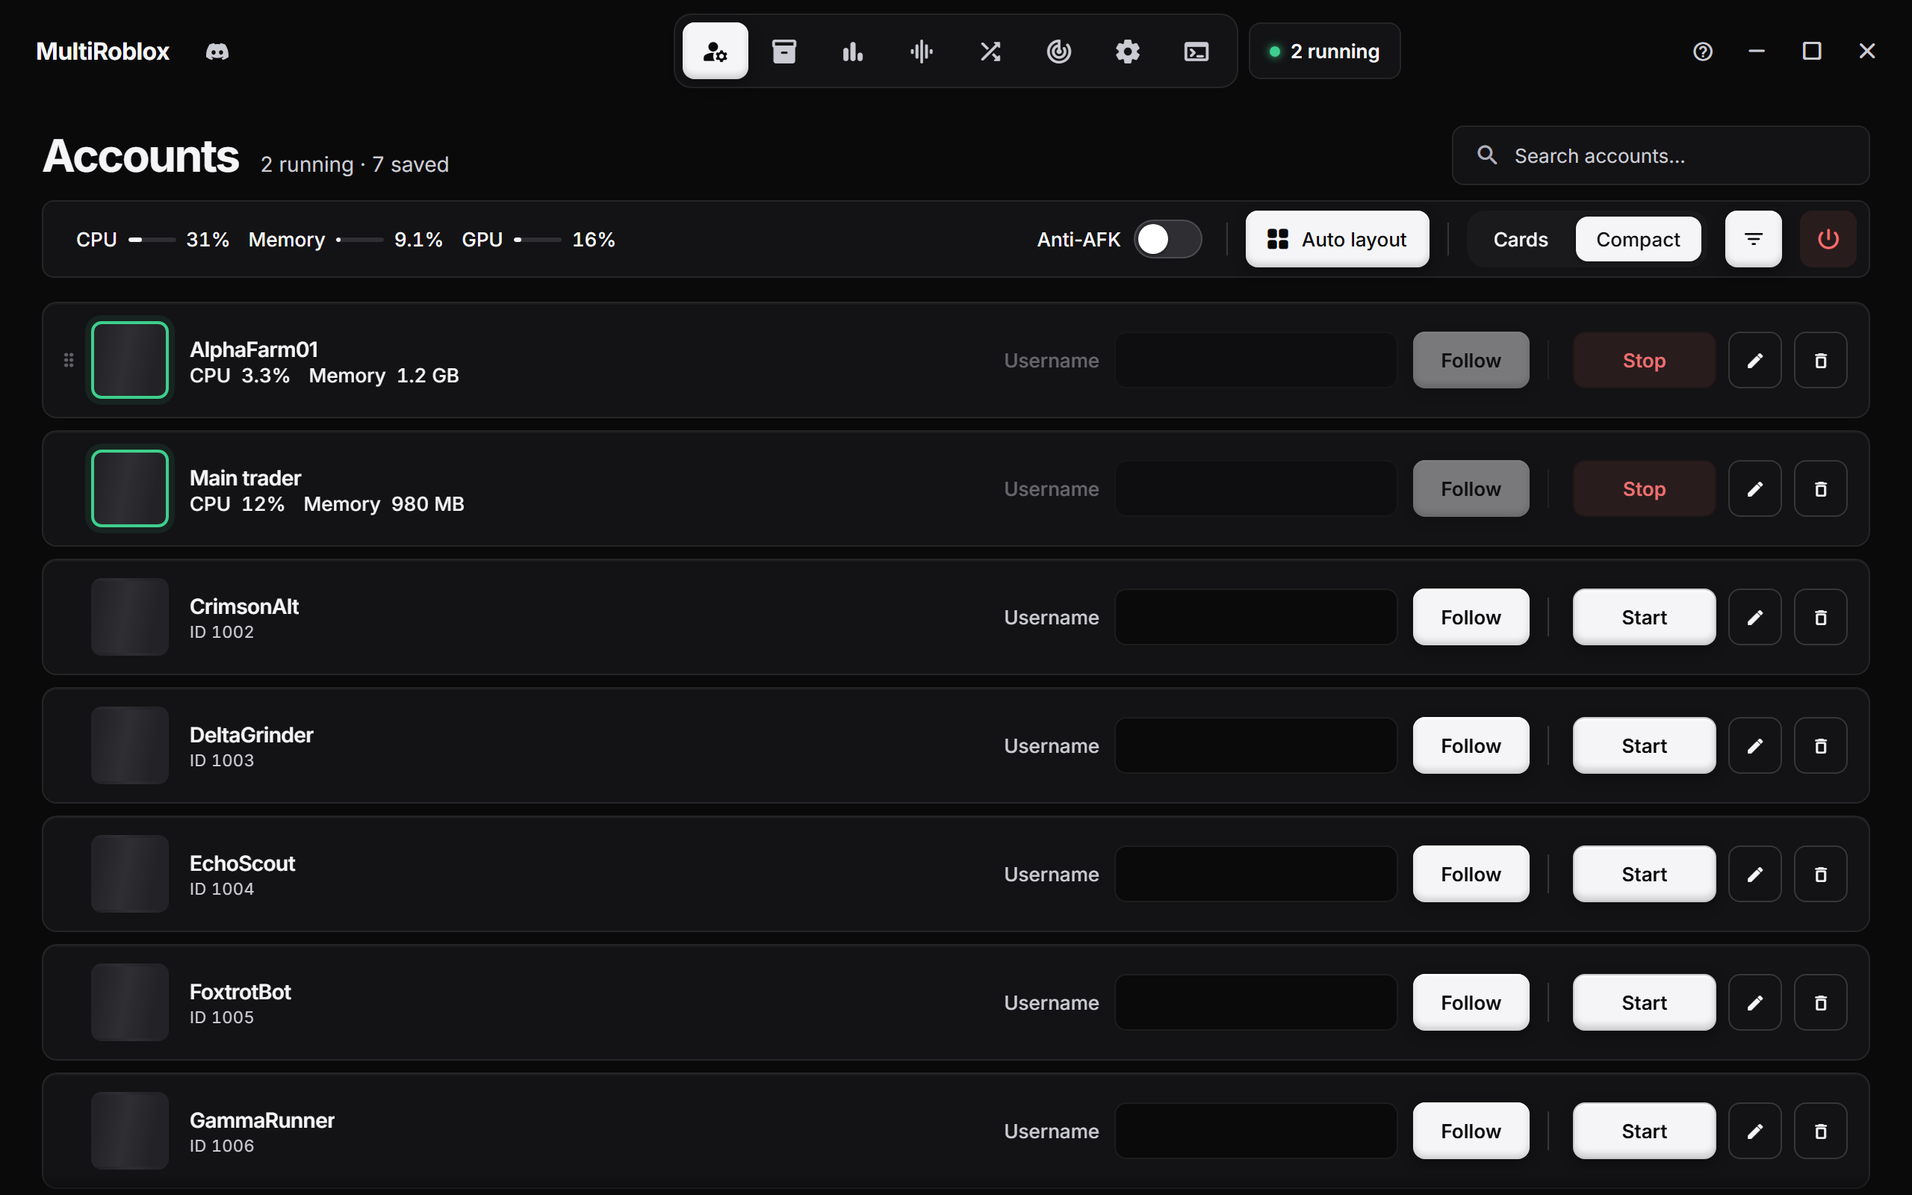
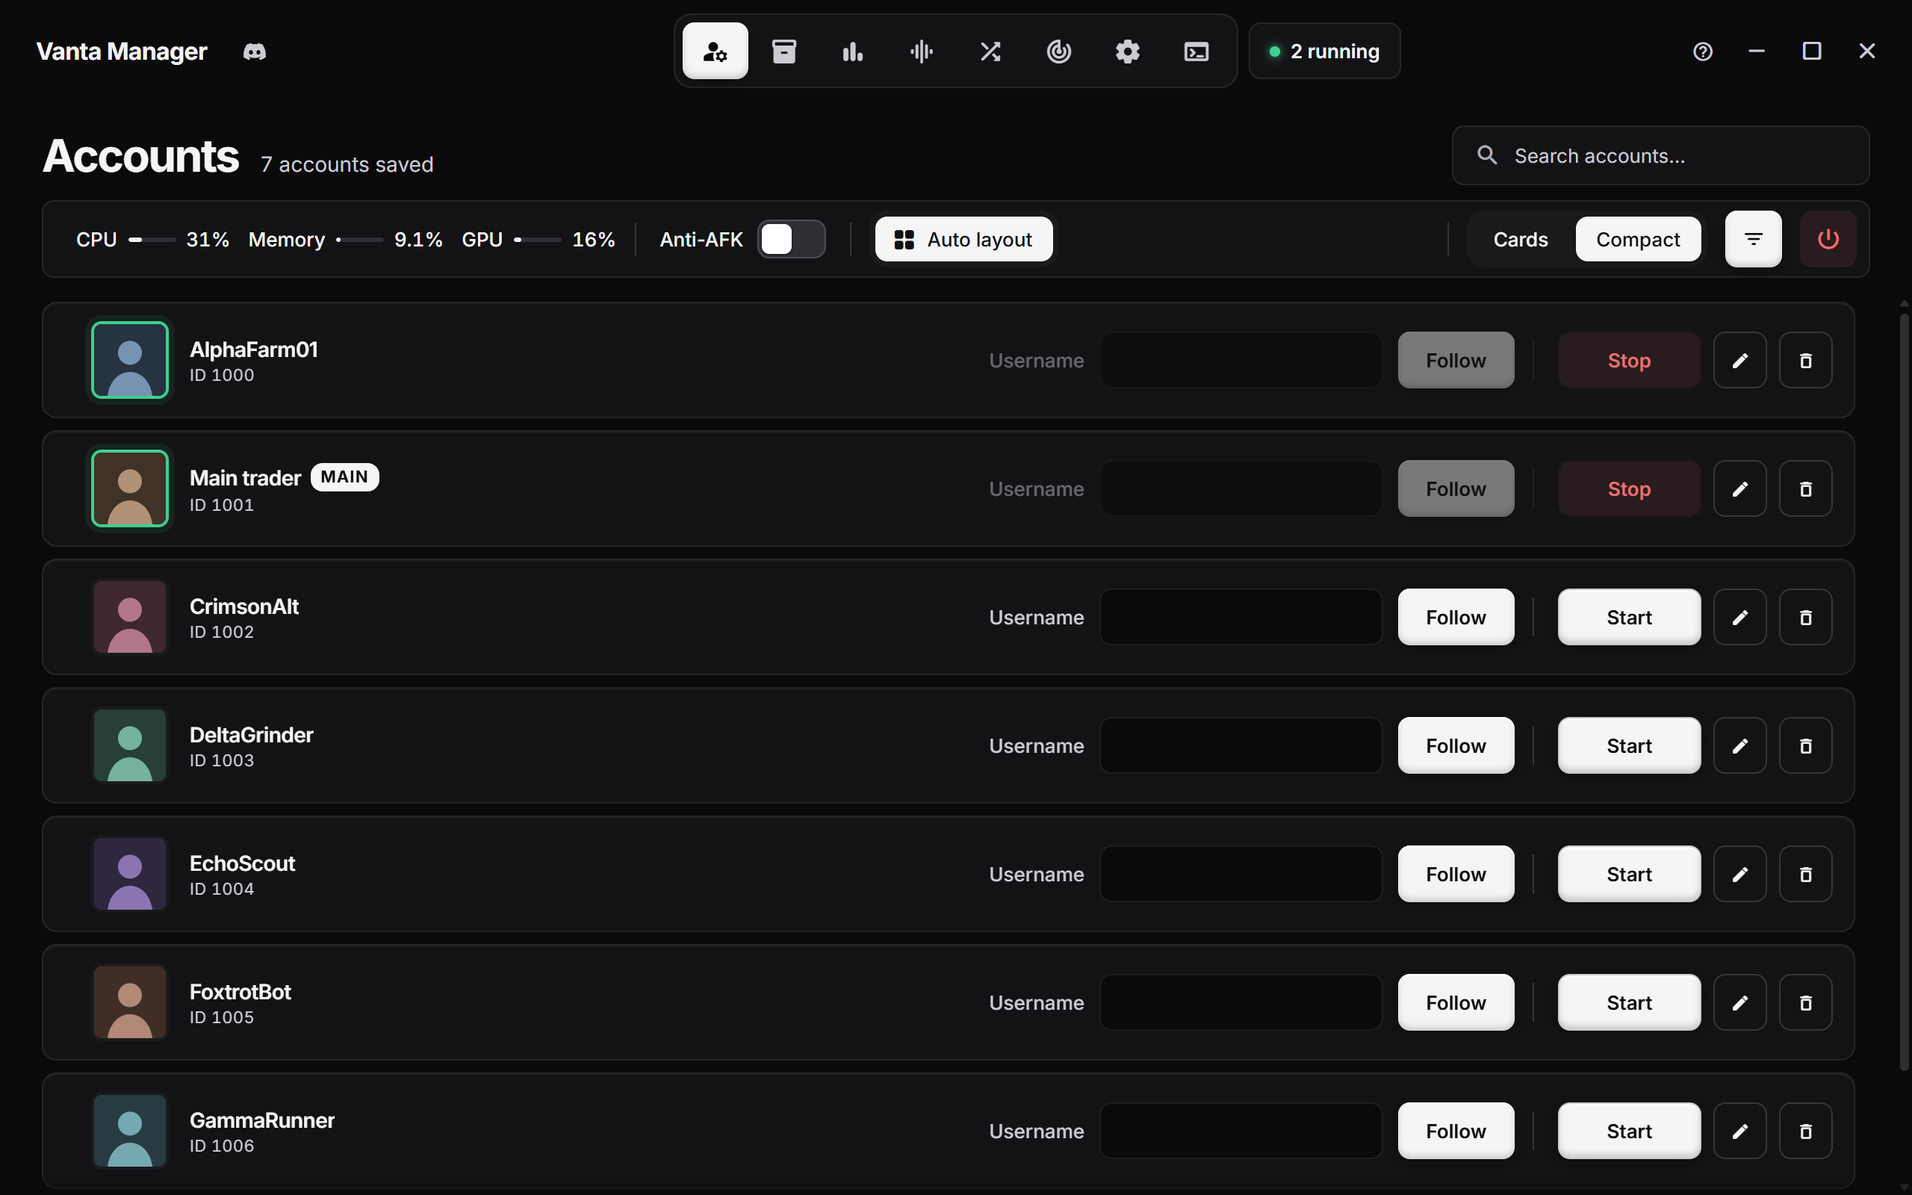
Update README for Vanta Manager
New name and icon, refreshed screenshots, and a rewritten feature list.

diff --git a/README.md b/README.md
@@ -1,43 +1,50 @@
 <div align="center">
 
-<img src="MultiRoblox/src-tauri/icons/128x128.png" width="96" alt="MultiRoblox logo" />
+<img src="docs/icon.png" width="112" alt="Vanta Manager logo" />
 
-# MultiRoblox
+# Vanta Manager
 
 **Run as many Roblox accounts as you want, side by side, on Windows.**<br>
-Launch, line up, monitor and tune every instance from one clean dashboard.
+Launch, line up, monitor and tune every client from one dashboard.
+
+*Formerly MultiRoblox. Your saved accounts and settings carry over.*
 
 <br>
 
-[![Download](https://img.shields.io/badge/Download-latest%20release-F5F5F7?style=for-the-badge&logo=github&logoColor=111113&labelColor=26262B)](https://github.com/PookiePepelsss/MultiRoblox-RAM/releases)
-[![Platform](https://img.shields.io/badge/Windows-10%20%7C%2011-0078D6?style=for-the-badge&logo=windows&logoColor=white)](https://github.com/PookiePepelsss/MultiRoblox-RAM/releases)
+[![Download](https://img.shields.io/badge/Download-latest%20release-F5F5F7?style=for-the-badge&logo=github&logoColor=111113&labelColor=26262B)](https://github.com/PookiePepelsss/Vanta-Manager/releases)
+[![Platform](https://img.shields.io/badge/Windows-10%20%7C%2011-0078D6?style=for-the-badge&logo=windows&logoColor=white)](https://github.com/PookiePepelsss/Vanta-Manager/releases)
 [![Built with Tauri](https://img.shields.io/badge/Tauri%202-Rust-24C8DB?style=for-the-badge&logo=tauri&logoColor=white)](https://tauri.app/)
 [![License](https://img.shields.io/badge/License-PolyForm%20Noncommercial-3DDC97?style=for-the-badge)](LICENSE)
 
 <br>
 
-<img src="docs/screenshots/accounts.png" alt="MultiRoblox accounts dashboard" width="920" />
+<img src="docs/screenshots/accounts.png" alt="Vanta Manager accounts dashboard" width="920" />
 
 </div>
 
 <br>
 
-## Why MultiRoblox
+## Why Vanta Manager
 
 |   |   |
 |---|---|
 | **One exe, no install** | Download it, run it. The native helper is embedded, so there are no extra files to keep next to it. |
-| **Real sign-in** | Log in through a real Roblox window, or paste a cookie. Cookies stay on your PC, encrypted. |
-| **Every account at once** | Roblox normally allows one client. MultiRoblox opens a fresh instance for each account you start. |
-| **Built for farms** | Groups, auto-relaunch, RAM limits, anti-AFK and tiled windows keep a lot of clients manageable. |
+| **Every account at once** | Roblox normally allows one client. Vanta Manager opens a fresh instance for each account you start, each signed in as that account. |
+| **Tune each client** | Give every account its own FPS cap, graphics level and window mode, so alts that only need to sit in a game cost very little. |
+| **Light on your PC** | Minimize, shrink or fully hide windows, cap RAM per client, and let the app itself drop its memory while it sits in the tray. |
+| **Built for farms** | Groups, auto-relaunch, anti-AFK and tiled windows keep a lot of clients manageable. |
+| **Your data stays yours** | Cookies are encrypted on your PC with Windows DPAPI or your own passphrase. Nothing is uploaded anywhere. |
 
 <br>
 
 ## Quick start
 
-1. Grab `MultiRoblox.exe` from [**Releases**](https://github.com/PookiePepelsss/MultiRoblox-RAM/releases).
-2. Run it, click **Add account**, and sign in.
-3. Press **Start** on as many accounts as you like.
+1. Download `VantaManager.exe` from [**Releases**](https://github.com/PookiePepelsss/Vanta-Manager/releases).
+2. Run it. If Windows SmartScreen warns about an unknown publisher, choose **More info**, then **Run anyway**. The app isn't code-signed.
+3. Click **Add account** and sign in through the Roblox window, or paste a cookie.
+4. Press **Start** on as many accounts as you like.
+
+**Coming from MultiRoblox?** Run the new exe and everything is already there. Accounts, groups and settings live in the same folder as before.
 
 <details>
 <summary><b>Build it yourself</b></summary>
@@ -47,12 +54,16 @@ Launch, line up, monitor and tune every instance from one clean dashboard.
 You need the [Rust toolchain](https://rustup.rs) and Node.js.
 
 ```bash
-git clone https://github.com/PookiePepelsss/MultiRoblox-RAM.git
-cd MultiRoblox-RAM/MultiRoblox
+git clone https://github.com/PookiePepelsss/Vanta-Manager.git
+cd Vanta-Manager/MultiRoblox
 build.bat
 ```
 
-The finished exe lands in `dist\MultiRoblox.exe`.
+The finished exe lands in `dist\VantaManager.exe`. To run the tests:
+
+```bash
+cargo test --manifest-path src-tauri/Cargo.toml --lib
+```
 
 </details>
 
@@ -62,24 +73,37 @@ The finished exe lands in `dist\MultiRoblox.exe`.
 
 <table>
   <tr>
-    <td width="50%"><img src="docs/screenshots/context-menu.png" alt="Right-click menu on a running account" /><br><sub><b>Right-click menu.</b> Kill, trim memory, set priority, edit, copy IDs.</sub></td>
+    <td width="50%"><img src="docs/screenshots/context-menu.png" alt="Right-click menu on a running account" /><br><sub><b>Right-click menu.</b> Kill, hide the window, trim memory, set priority, edit, copy IDs.</sub></td>
+    <td width="50%"><img src="docs/screenshots/edit-account.png" alt="Edit account, Performance tab" /><br><sub><b>Per-account performance.</b> FPS cap, graphics, window mode and Advanced graphics for each account.</sub></td>
+  </tr>
+  <tr>
+    <td width="50%"><img src="docs/screenshots/groups.png" alt="Groups page" /><br><sub><b>Groups.</b> Launch or kill a whole squad at once, with a server mode for each.</sub></td>
     <td width="50%"><img src="docs/screenshots/auto-layout.png" alt="Auto layout dialog" /><br><sub><b>Auto layout.</b> Tile every running window on your screen.</sub></td>
   </tr>
   <tr>
-    <td width="50%"><img src="docs/screenshots/mixer.png" alt="Mixer page" /><br><sub><b>Mixer.</b> Render quality, FPS cap and volume for every instance.</sub></td>
-    <td width="50%"><img src="docs/screenshots/game-page.png" alt="Game page with Play button and account picker" /><br><sub><b>Game pages.</b> Pick an account, press Play, browse servers.</sub></td>
+    <td width="50%"><img src="docs/screenshots/mixer.png" alt="Mixer page" /><br><sub><b>Mixer.</b> Render quality, FPS cap, volume and custom FFlags for every instance.</sub></td>
+    <td width="50%"><img src="docs/screenshots/settings-performance.png" alt="Performance settings" /><br><sub><b>Performance.</b> RAM limiter, priority, hidden windows and Advanced graphics.</sub></td>
   </tr>
   <tr>
+    <td width="50%"><img src="docs/screenshots/game-page.png" alt="Game page with Play button and account picker" /><br><sub><b>Game pages.</b> Pick an account, press Play, browse servers.</sub></td>
     <td width="50%"><img src="docs/screenshots/charts.png" alt="Charts page" /><br><sub><b>Charts.</b> Top playing, top rated and top earning games.</sub></td>
-    <td width="50%"><img src="docs/screenshots/settings-performance.png" alt="Performance settings" /><br><sub><b>Performance.</b> RAM limiter, RAM trim, priority and rendering engine.</sub></td>
+  </tr>
+  <tr>
+    <td width="50%"><img src="docs/screenshots/generator.png" alt="Generator page" /><br><sub><b>Generator.</b> Make accounts with a BloxGen or Altgen key and add them in one click.</sub></td>
+    <td width="50%"><img src="docs/screenshots/tracking.png" alt="Tracking page" /><br><sub><b>Tracking.</b> Timed screenshots sent to a Discord webhook.</sub></td>
   </tr>
   <tr>
     <td width="50%"><img src="docs/screenshots/accounts-compact.png" alt="Compact account list" /><br><sub><b>Compact view.</b> A dense list for large account collections.</sub></td>
-    <td width="50%"><img src="docs/screenshots/tracking.png" alt="Tracking page" /><br><sub><b>Tracking.</b> Timed screenshots sent to a Discord webhook.</sub></td>
+    <td width="50%"><img src="docs/screenshots/settings-general.png" alt="General settings" /><br><sub><b>Settings.</b> Short descriptions, details on demand, and search across every tab.</sub></td>
   </tr>
 </table>
 
-> Screenshots use made-up sample accounts.
+<div align="center">
+<img src="docs/screenshots/themes.png" alt="Thirteen themes" width="620" /><br>
+<sub><b>Themes.</b> Light, dark and eleven accent themes.</sub>
+</div>
+
+> Screenshots use made-up sample accounts and a made-up game.
 
 <br>
 
@@ -92,17 +116,62 @@ The finished exe lands in `dist\MultiRoblox.exe`.
 
 - Launch as many accounts side by side as you want
 - Sign in through a real Roblox login window, or paste a cookie directly
-- Set a game ID, invite link, or private server link per account so it launches straight there
-- Nicknames, search, filtering, and a Cards or Compact view
-- Cookies encrypted with Windows DPAPI by default, or AES-256-GCM with your own passphrase, and stored locally
-- Auto-relaunch when an instance closes, back into the same game (crash-loop protected)
-- Right-click a running account to kill it, trim its memory, or set its process priority (Realtime down to Low)
-- Live CPU, memory and GPU readout for the whole machine and for each running account
+- Set a game ID, invite link or private server link per account so it launches straight there
+- Nicknames, a MAIN tag, search, filtering, and a Cards or Compact view
+- Right-click a running account to kill it, hide or show its window, trim its memory, or set its priority (Realtime down to Low)
+- Relaunch an account into the same game when it disconnects
+- Live CPU, memory and GPU readout for the whole PC
+- Launches the current Roblox build, so a stale install doesn't make Roblox update and reinstall itself
+- Works with vanilla Roblox and Bloxstrap-style bootstrappers (Bloxstrap, Fishstrap, Froststrap, Voidstrap and other forks). Installs are found automatically, and you can pick which one launches use
 
 </details>
 
 <details>
-<summary><b>🪟 Auto layout</b> <sub>new</sub></summary>
+<summary><b>⚡ Per-account performance</b></summary>
+
+<br>
+
+Open **Edit account**, then **Performance**:
+
+- **FPS cap**: 10 to unlimited, just for this account
+- **Graphics quality**: its own level, just for this account
+- **Window after it starts**: *Default*, *Normal*, *Small*, *Minimized* or *Hidden*
+- **Advanced graphics**: always on, always off, or follow Settings
+
+These are applied right before the client starts and your shared values are put back afterwards, so one account's setup never leaks into another's.
+
+</details>
+
+<details>
+<summary><b>🫥 Hidden windows</b></summary>
+
+<br>
+
+- A hidden client has no window and no taskbar button, and draws nothing, so its GPU use drops to almost zero
+- The game itself keeps running as normal: physics, scripts and the connection carry on
+- Anti-AFK and Tracking still work. The window is shown for a moment when one of them needs it, then hidden again
+- Turn on **Hide Roblox windows** in Settings to start every account hidden, or set it per account
+- Right-click an account to show or hide its window at any time
+- If Vanta Manager closes, every hidden window comes back to the taskbar
+
+</details>
+
+<details>
+<summary><b>🎛 Mixer and Advanced graphics</b></summary>
+
+<br>
+
+- Render quality, FPS cap and volume for all running instances in one panel
+- Graphics quality writes to Roblox's fast flags. The FPS cap writes Roblox's client settings and can be protected, so Roblox can't reset it
+- Live, per-instance volume control
+- **Advanced graphics**: anti-aliasing (x1 to x8), texture quality and hidden grass, through Roblox's own allowlisted flags
+- **Custom FFlags**: add flags from Roblox's allowlist and apply each to every account or only the ones you pick. Anything the client would ignore isn't offered
+- Kill all instances with one click
+
+</details>
+
+<details>
+<summary><b>🪟 Auto layout</b></summary>
 
 <br>
 
@@ -118,21 +187,9 @@ The finished exe lands in `dist\MultiRoblox.exe`.
 
 <br>
 
-- Bundle accounts into groups (farm squad, trading alts, etc.)
-- Launch or kill an entire group at once, with a shared or per-account game target
-
-</details>
-
-<details>
-<summary><b>🎚 Mixer</b></summary>
-
-<br>
-
-- Render quality, FPS cap (10–9999) and volume for all running instances in one panel
-- Graphics quality writes to Roblox's fast flags; the FPS cap writes Roblox's global client settings and can be protected so Roblox can't reset it
-- Works with vanilla Roblox and any Bloxstrap-style bootstrapper (Bloxstrap, Fishstrap, Froststrap, Voidstrap and other forks). Installs are detected automatically, and you pick which one launches use in Settings › Roblox
-- Live, per-instance OS-level volume control
-- Kill all instances with one click
+- Bundle accounts into groups (farm squad, trading alts and so on)
+- Launch or kill an entire group at once
+- Pick how a group joins: the **same server**, **random** public servers, the **closest** servers, or **their own private servers**
 
 </details>
 
@@ -142,8 +199,19 @@ The finished exe lands in `dist\MultiRoblox.exe`.
 <br>
 
 - Browse top playing now, top rated and top earning games, or search any game
-- Game pages show details, screenshots, likes, and the server list (public and private)
+- Game pages show details, screenshots, likes and the server list, public and private
 - Press **Play** with any saved account, or join a specific server
+
+</details>
+
+<details>
+<summary><b>🕹 Anti-AFK</b></summary>
+
+<br>
+
+- Taps a key into every open Roblox window on an interval you choose (5 to 17 minutes), so the idle kick never fires
+- Pick which key is pressed. Shift is the safest, since it moves nothing
+- Works on minimized and hidden windows too
 
 </details>
 
@@ -158,12 +226,14 @@ The finished exe lands in `dist\MultiRoblox.exe`.
 </details>
 
 <details>
-<summary><b>🕹 Anti-AFK</b></summary>
+<summary><b>🎲 Generator</b></summary>
 
 <br>
 
-- Taps a key into every open Roblox window on a configurable interval, so the idle kick never fires
-- Pick which key is pressed in Settings
+- Paste a [BloxGen](https://bloxgen.net/) or [Altgen](https://altgen.me/) key. The service is detected from the key
+- The new account appears in its own card with the password hidden until you ask for it
+- A searchable history shows when each account was made and marks the ones you've added
+- **Add** signs in with the account's password and saves it, falling back to the cookie if needed
 
 </details>
 
@@ -172,31 +242,50 @@ The finished exe lands in `dist\MultiRoblox.exe`.
 
 <br>
 
-- **General**: multi-instance status, sign-in protection between clients (error 773), anti-AFK, relaunch-on-disconnect
-- **Performance**: RAM limiter (caps each instance's physical RAM, globally or per account), RAM trim (manual or automatic), block `RobloxCrashHandler.exe`, optionally lower CPU priority once several accounts are running, force a rendering engine (Direct3D 11/9, OpenGL, Vulkan) via fast flags
-- **Data & Privacy**: custom encryption key or Windows DPAPI, clear all accounts
-- **Themes**: light and dark, plus several accent themes
-- **Sounds**: UI sound profiles with volume control and upload-your-own support
+- **General**: hide to the tray, multi-instance, sign-in protection between clients (error 773), anti-AFK, relaunch on disconnect, live pictures on running tiles
+- **Performance**: RAM limiter (per instance, globally or per account), RAM trim (manual or automatic), lower CPU priority once several accounts run, hide Roblox windows, graphics API (Direct3D 11, OpenGL or Vulkan) and Advanced graphics
+- **Roblox**: choose which install launches use
+- **Data & Privacy**: your own encryption key or Windows DPAPI, clear all accounts
+- **Themes**: light, dark and eleven accent themes
+- A search box finds any setting, and each one has a short description with details on demand
+- **Logs** has a live viewer with in-page search (Ctrl+F)
 
 </details>
 
 <details>
-<summary><b>🎲 Generator and 📜 Logs</b></summary>
+<summary><b>🍃 Resource use</b></summary>
 
 <br>
 
-- Generate accounts with a [bloxgen.net](https://bloxgen.net/) or [altgen.me](https://altgen.me/) API key
-- A live log viewer with in-page search (Ctrl+F)
+- Closed clients are noticed the moment Windows reports them, instead of by scanning on a timer
+- While the window is minimized or in the tray, background checks slow down and the app asks Windows to trim its own memory
+- Per-client RAM caps, a lowered priority, and minimized or hidden windows keep many clients usable on one machine
 
 </details>
+
+<br>
+
+## Running many accounts
+
+A few settings make the biggest difference when you have lots of clients open:
+
+1. **Cap the FPS** on alts that only need to stay in a game. 15 to 30 FPS is plenty for most of them.
+2. **Minimize or hide** those windows. A minimized client draws nothing, so its GPU use falls to almost nothing.
+3. **Turn on Advanced graphics** for the lowest textures, no anti-aliasing and no grass. It mainly saves GPU memory.
+4. **Set a RAM limit** per instance to push idle memory out to disk.
+5. **Lower the priority** once several accounts run, so the rest of your PC stays responsive.
+
+Do this per account in **Edit account**, so your main account keeps full quality.
 
 <br>
 
 ## How it works
 
-Roblox prevents multiple instances by holding a Windows mutex. MultiRoblox grabs that mutex first through a small native helper (`RobloxNative.exe`, written in C#), so Roblox opens a fresh instance every time. Each account gets its own auth ticket before launch, so every window signs in as a different account.
+Roblox prevents multiple instances by holding a Windows mutex. Vanta Manager grabs that mutex first through a small native helper (`RobloxNative.exe`, written in C#), so Roblox opens a fresh instance every time. Each account gets its own auth ticket before launch, so every window signs in as a different account.
 
 Login opens a native, chromeless window with no external browser involved, and reads the session cookie once you sign in. The helper is embedded in the app, so the exe runs on its own.
+
+Hiding a window uses the same call the taskbar does. Nothing is read from or written into the Roblox client.
 
 <br>
 
@@ -212,6 +301,33 @@ Running multiple accounts isn't something Roblox actively bans for normal use, b
 </details>
 
 <details>
+<summary><b>Does a hidden client still play the game?</b></summary>
+
+<br>
+
+Yes. Hiding only removes the window and stops it drawing. The game keeps running, so your character stays in the server and physics and scripts carry on.
+
+</details>
+
+<details>
+<summary><b>Where is my data stored?</b></summary>
+
+<br>
+
+Locally on your PC, in `%APPDATA%\multiroblox`. The folder keeps its old name so existing installs find their data. Cookies are encrypted with Windows DPAPI by default, or with AES-256-GCM if you set your own key. Nothing is uploaded anywhere.
+
+</details>
+
+<details>
+<summary><b>How do I update?</b></summary>
+
+<br>
+
+Download the new exe and run it in place of the old one. Your accounts and settings stay where they are.
+
+</details>
+
+<details>
 <summary><b>My antivirus flags RobloxNative.exe</b></summary>
 
 <br>
@@ -221,11 +337,11 @@ Running two Roblox clients at once means closing Roblox's single-instance lock, 
 </details>
 
 <details>
-<summary><b>Where are my cookies stored?</b></summary>
+<summary><b>Roblox opens and then reinstalls itself</b></summary>
 
 <br>
 
-Locally on your PC, encrypted with Windows DPAPI by default, or with AES-256-GCM if you set your own key. Nothing is uploaded anywhere.
+That happens when a launch picks an out-of-date Roblox install. Vanta Manager launches the current build and tells you when none is up to date. If you use a bootstrapper, open **Settings**, then **Roblox**, and choose that install.
 
 </details>
 
@@ -233,12 +349,13 @@ Locally on your PC, encrypted with Windows DPAPI by default, or with AES-256-GCM
 
 ## Disclaimer
 
-Using this software is at your own risk. The author is not responsible for any bans, suspensions, or other action taken against your account. MultiRoblox is not affiliated with Roblox Corporation.
+Using this software is at your own risk. The author is not responsible for any bans, suspensions, or other action taken against your account. Vanta Manager is not affiliated with Roblox Corporation.
 
+<br>
 
 ## Support
 
-If MultiRoblox saved you time, consider tossing a tip my way.
+If Vanta Manager saved you time, consider tossing a tip my way.
 
 | Coin | Address |
 |---|---|
